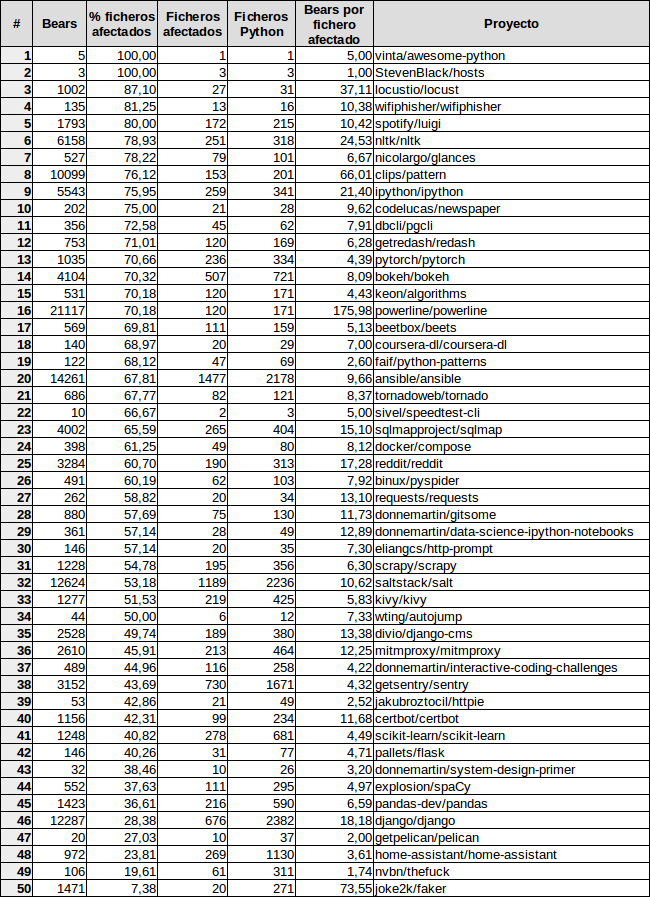
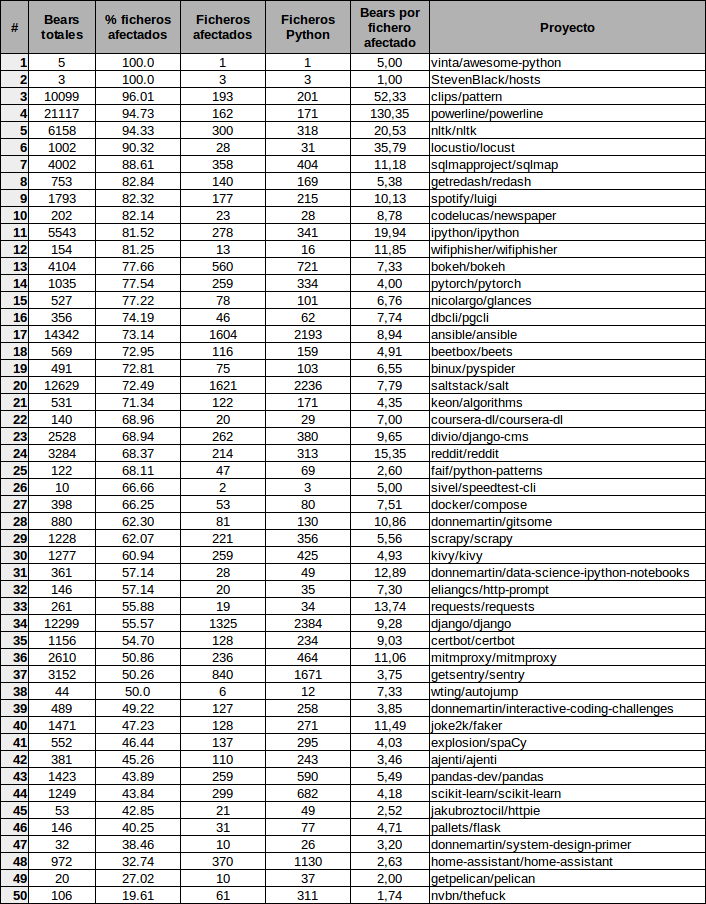
memoria v2.1

diff --git a/memoria.tex b/memoria.tex
@@ -155,7 +155,16 @@ mi familia, que siempre me ha apoyado.}
 %\addcontentsline{toc}{chapter}{Agradecimientos} % si queremos que aparezca en el índice
 \markboth{AGRADECIMIENTOS}{AGRADECIMIENTOS} % encabezado 
 
-Aquí vienen los agradecimientos\ldots 
+¡Por fin llegó el dia! Con la entrega de este proyecto doy por terminada esta etapa de mi vida. Ha sido un camino largo, muchas horas de estudio, dias de biblioteca, alegrías y decepciones, pero todo esfuerzo tiene su recompensa. Al final de esta estapa no solo me llevo el título, también me llevo un trocito de todas esas personas con las que he compartido mis dias y que han estado ahí para hacerlo todo mas llevadero.
+
+A Celia, por tu amistad y apoyo incondicional; a Carlos, por todos esos momentos compartidos dentro y fuera de la universidad; a Álvaro, por esos dias en su casa agobiados con las prácticas y las discusiones futboleras; a Borja, por esos primeros dias de uni y todos los viajes camino a la universidad; a Joel, Pedro, César, Larraco, Victor, Sergio, Hugo, Alberto, Raquel, y a todos los que me dejo, con quienes he compartido muchas horas de estudio, dudas, alegrias, confidencias y muchísimas risas.
+
+A mi tutor, Gregorio, por su ayuda y consejo para la realización de este trabajo. Gracias por todo.
+
+A mis amigos, que fueron un apoyo y una via de escape en momentos de agobio.
+
+Y por supuesto a mi familia, que siempre me ha apoyado en todos los sentidos. Vero, gracias por estar siempre que te he necesitado. Abuelos, por vuestra forma de afrontar las adversidades y demostrarme que es posible superar cualquier cosa. Pero sobre todo a mis padres, por todo su apoyo y el enorme esfuerzo que han hecho para que yo pudiera conseguir este objetivo, todo esto es tan mío como vuestro.
+
 %%%%%%%%%%%%%%%%%%%%%%%%%%%%%%%%%%%%%%%%%%%%%%%%%%%%%%%%%%%%%%%%%%%%%%%%%%%%%%%%
 %%%% Resumen
 
@@ -1037,7 +1046,7 @@ Para la creación de la tabla Bear que contiene la información de los bears enc
 
 \cleardoublepage
 \chapter{Resultados}
-Para comprender la utilidad de la aplicación, vamos a analizar una lista de 50 proyectos\footnote{Dentro de los 51 mejores solo se ha excluido 1 por tamaño.} dentro aquellos que cuentan con más estrellas en GitHub. Para ello, vamos a utilizar un fichero de configuración en el que incluiremos, en lugar de todo el listado disponible para Python, una selección de bears para centrarnos solo en algunos aspectos y evitando aquellos bears que hacen un análisis completo por si mismos. De este modo se pretende clasificar los resultados por los datos concretos que analiza cada uno de estos bears.
+Para comprender la utilidad de la aplicación, vamos a analizar una lista de 50 proyectos\footnote{Dentro de los 52 con mas estrellas solo se han excluido 2 por tamaño.} dentro aquellos que cuentan con más estrellas en GitHub. Para ello, vamos a utilizar un fichero de configuración en el que incluiremos, en lugar de todo el listado disponible para Python, una selección de bears para centrarnos solo en algunos aspectos y evitando aquellos bears que hacen un análisis completo por si mismos. De este modo se pretende clasificar los resultados por los datos concretos que analiza cada uno de estos bears.
 
 \section{Fichero de configuración}
 \label{sec:_coafile}
@@ -1076,7 +1085,14 @@ Ahora vamos a hacer una comparación entre proyectos. Uno de los datos que podem
   \label{fig:anexoTabla}
 \end{figure}
 
-Dentro de este escenario, el proyecto con un menor porcentaje de ficheros Python Afectados por algún bear es 'faker', cuyo creador es 'joker2k'. ¿Esto hace de 'faker' el proyecto con menos 'errores' del listado? La respuesta es que depende. Aunque es el que menos ficheros tiene afectados por algún bear, es el segundo en cantidad de bears por fichero afectado.
+Dentro de este escenario, el proyecto con un menor porcentaje de ficheros Python Afectados por algún bear es 'thefuck', cuyo creador es 'nvbn'. ¿Esto hace de 'thefuck' el proyecto con menos 'errores' del listado? La respuesta es que depende. Es el que menos ficheros tiene afectados por algún bear en términos absolutos, es el segundo en cantidad de bears por fichero afectado. Además, el fichero que cuenta con mas errores tiene 8, realcionados con el estilo, código en desuso y el uso de espacios.
+
+\begin{figure}[h]
+  \centering
+  \includegraphics[width=15cm, keepaspectratio]{img/theFuckInfo}
+  \caption{Extracto de lista de ficheros afectados en 'thefuck'.}
+  \label{fig:theFuckInfo}
+\end{figure}
 
 Por ejemplo el proyecto 'hosts' de 'StevenBlack' tiene errores en todos sus ficheros Python, pero son errores sobre la convención de nombrado de los ficheros ('FilenameBear'), en total es en el que menos bears se han encontrado.
 \begin{figure}[h]
@@ -1085,6 +1101,26 @@ Por ejemplo el proyecto 'hosts' de 'StevenBlack' tiene errores en todos sus fich
   \caption{Página del proyecto 'hosts'.}
   \label{fig:proyectoHosts}
 \end{figure}
+
+Para recabar más información sobre el proyecto 'thefuck', habría que inspeccionar los ficheros. Por ejemplo, el fichero 'test\_yarn\_command\_not\_found.py', que es el que mayor número de bears acumula en este proyecto.
+
+Como se observa en la figura~\ref{fig:ficheroTheFuck}, la mayor parte de errores vienen de la inclusión de espacios al final o al inicio de una sentencia. Si inspeccionamos uno de esos errores en el fichero, a través del enlace a la línea exacta desde la información de bear, podremos comprobar como existe un espacio en blanco a la derecha de '--json' que ha detectado el 'SpaceConsistencyBear', que por defecto no permite estos espacios.
+
+\begin{figure}[h]
+  \centering
+  \includegraphics[width=15cm, keepaspectratio]{img/ficheroTheFuck}
+  \caption{Detalle de bears encontrados en un fichero de 'thefuck'.}
+  \label{fig:ficheroTheFuck}
+\end{figure}
+
+\begin{figure}[h]
+  \centering
+  \includegraphics[width=15cm, keepaspectratio]{img/bearData}
+  \caption{Detalle de uno de los bears encontrados. A la izquierda, la página de la aplicación; a la derecha el fichero en GitHub.}
+  \label{fig:bearData}
+\end{figure}
+
+Así, la aplicación nos ayuda a detectar y corregir el código en el caso de ser necesario. Uno de los principales ejemplos de uso seria analizar un proyecto propio de GitHub y a partir de los resultados del analisis, arreglar aquellas partes que lo necesiten.
 
 %%%%%%%%%%%%%%%%%%%%%%%%%%%%%%%%%%%%%%%%%%%%%%%%%%%%%%%%%%%%%%%%%%%%%%%%%%%%%%%%
 %%%%%%%%%%%%%%%%%%%%%%%%%%%%%%%%%%%%%%%%%%%%%%%%%%%%%%%%%%%%%%%%%%%%%%%%%%%%%%%%
